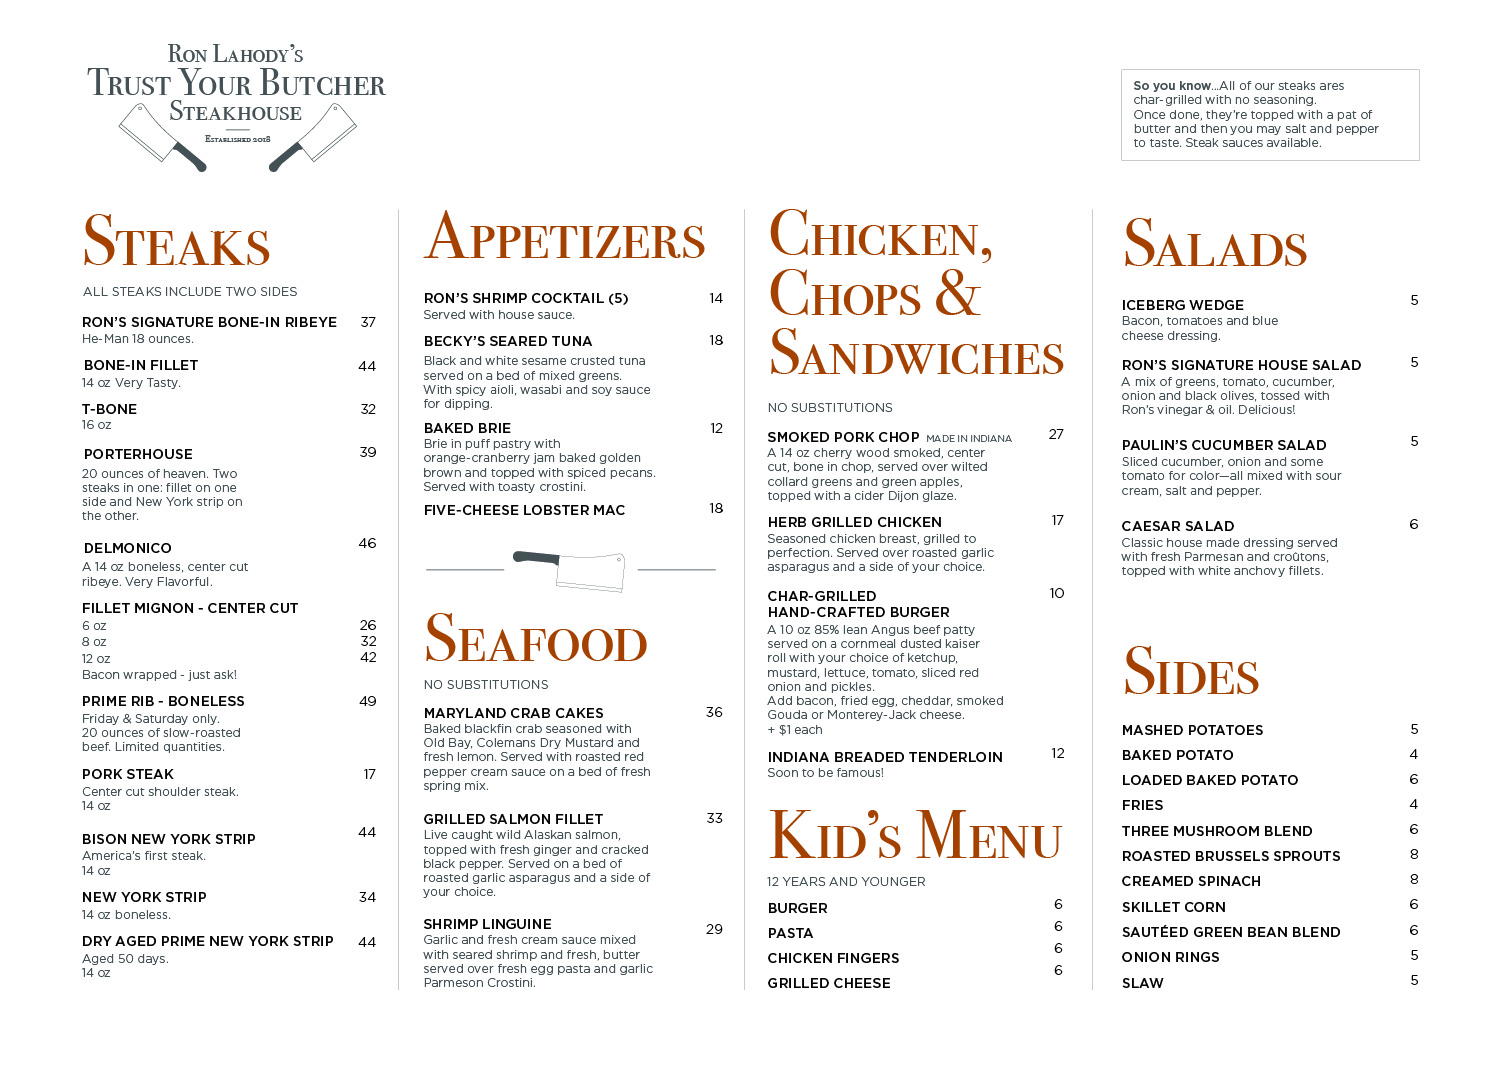
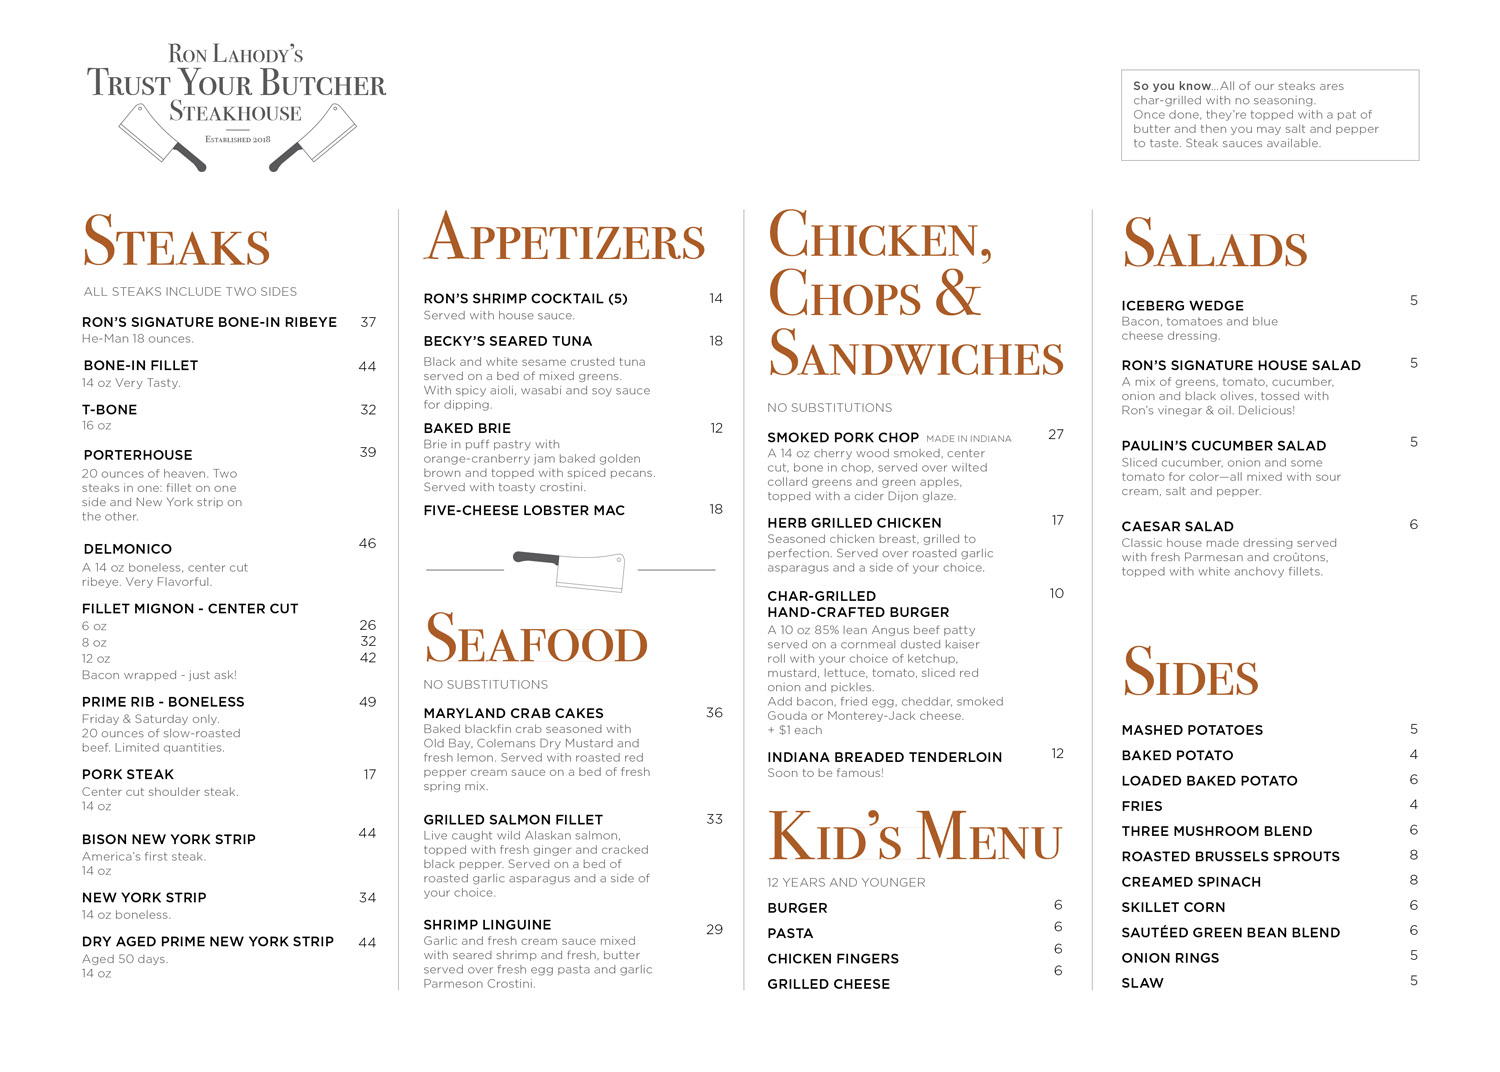
Image optimization

diff --git a/ball-state.html b/ball-state.html
@@ -54,11 +54,11 @@
             </div>
 
         </div>
-        <img src="assets/images/corps_badge_color.png">
-        <img src="assets/images/dc_portfolioday_program.png">
+        <img src="assets/images/corps_badge_color.jpg">
+        <img src="assets/images/portfolio_day_program_front.jpg">
         <img src="assets/images/digital_corps_banner.jpg">
-        <img src="assets/images/Screenshot 2019-03-19 08.16.39.png">
-        <img src="assets/images/Screenshot 2019-04-13 16.58.16.png">
+        <img src="assets/images/centennial_spotlight.jpg">
+        <img src="assets/images/presidential_invite.jpg">
         <img src="assets/images/museum_coin_app.jpg">
 
         <div class="mobile-menu">

diff --git a/lahody.html b/lahody.html
@@ -52,7 +52,7 @@
 
         </div>
         <img src="assets/images/lahody_menu.jpg">
-        <img src="assets/images/lahody_web.png">
+        <img src="assets/images/lahody_web.jpg">
 
 
         <div class="mobile-menu">
